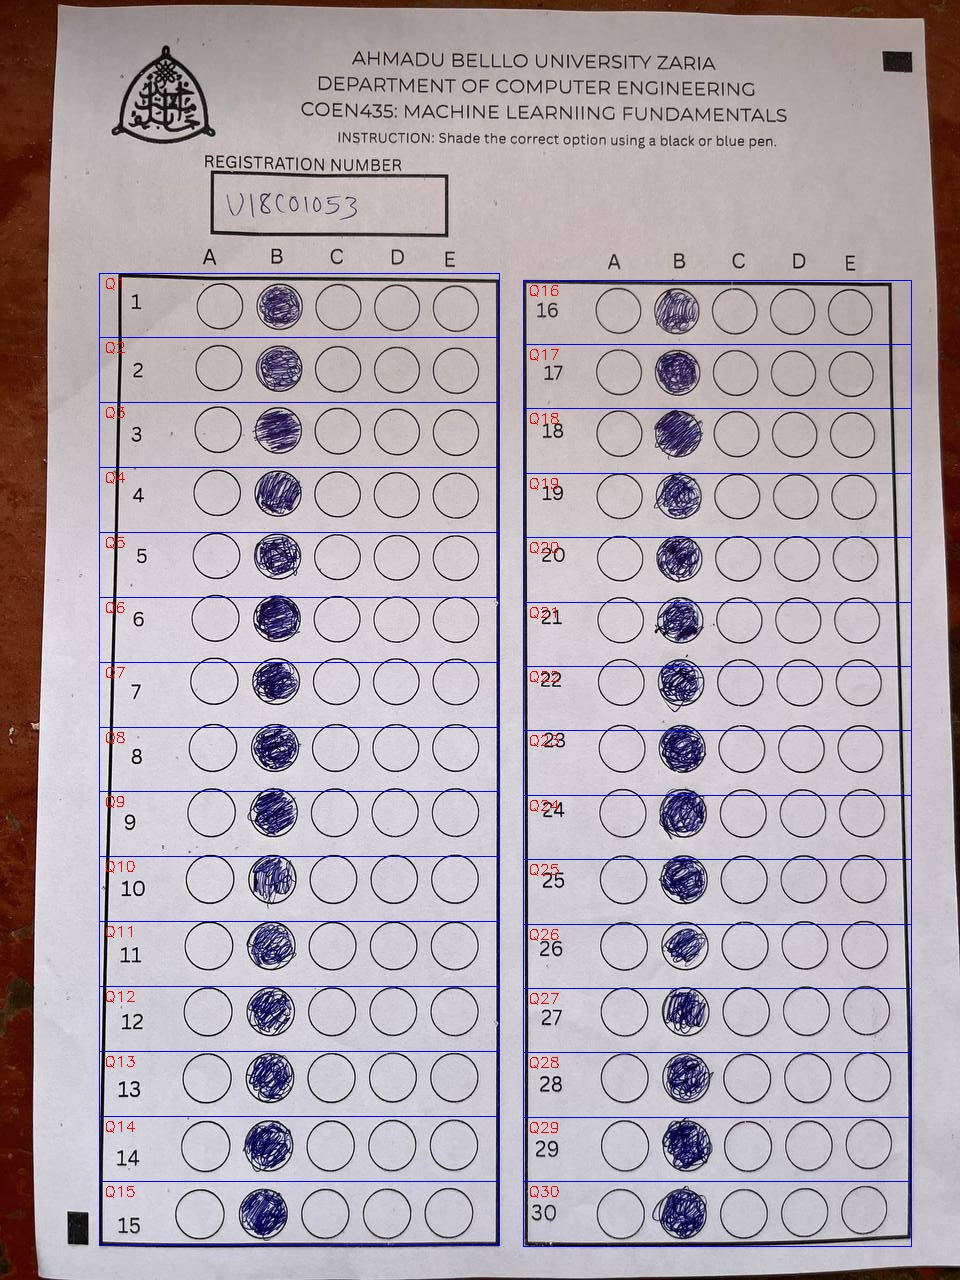
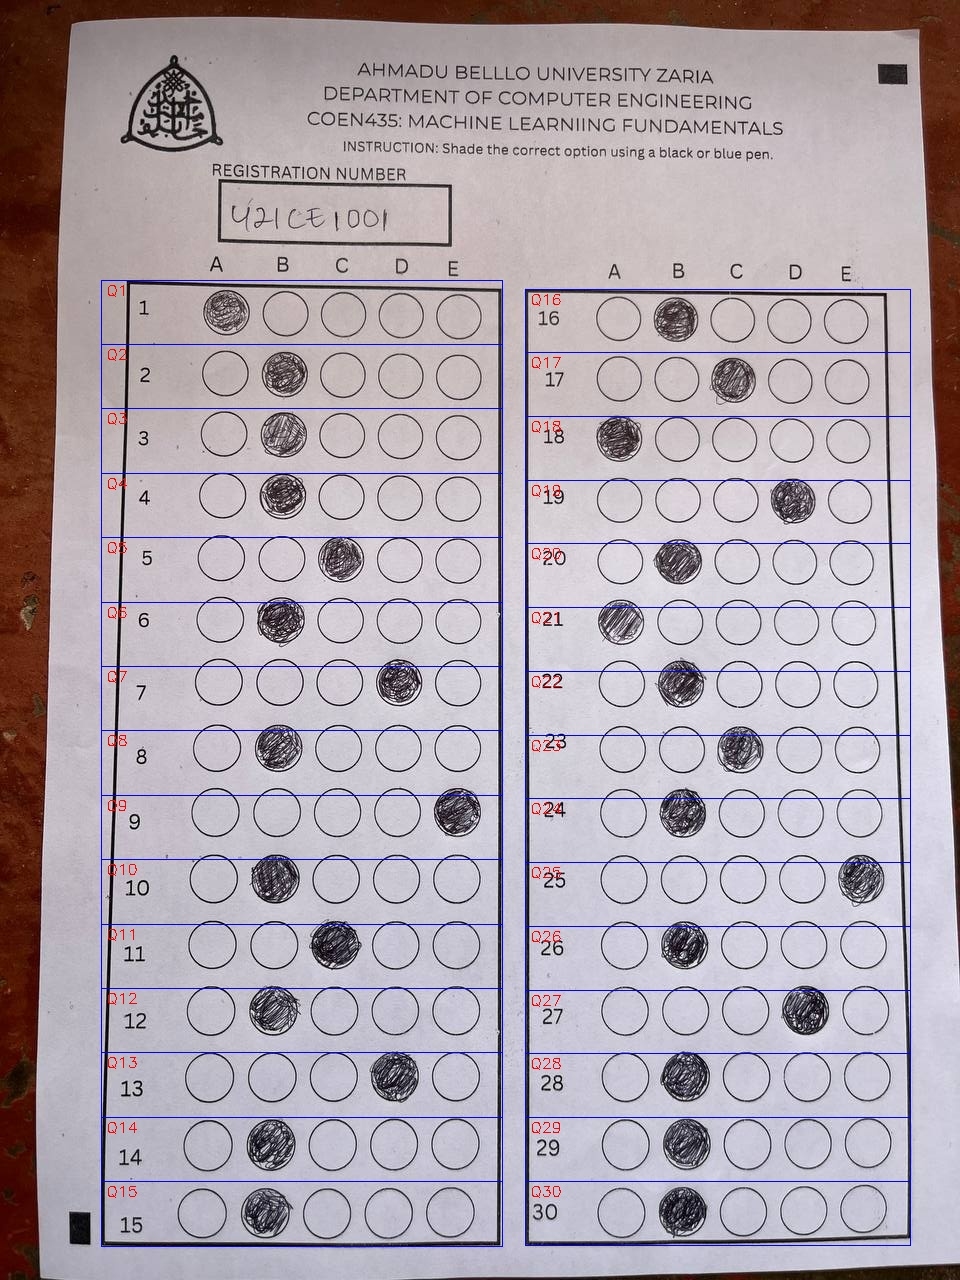
addition

diff --git a/mcq-grader-app/src/screens/GradeScreen.js b/mcq-grader-app/src/screens/GradeScreen.js
@@ -13,6 +13,7 @@ import * as ImagePicker from "expo-image-picker";
 import AsyncStorage from "@react-native-async-storage/async-storage";
 import axios from "axios";
 import { BASE_URL } from "../../config";
+import * as FileSystem from 'expo-file-system';
 
 export default function GradeScreen({ route, navigation }) {
   const { template, courseCode } = route.params; // ✅ passed from TemplatesScreen
@@ -50,18 +51,26 @@ export default function GradeScreen({ route, navigation }) {
 
     setLoading(true);
     try {
-      const formData = new FormData();
-      formData.append("file", {
-        uri: image,
-        type: "image/jpeg",
-        name: "answer_sheet.jpg",
+      // Read image as base64
+      const filename = image.split('/').pop();
+      const base64 = await FileSystem.readAsStringAsync(image, {
+        encoding: FileSystem.EncodingType.Base64,
       });
 
-      const response = await axios.post(`${BASE_URL}/grade`, formData, {
-        headers: { "Content-Type": "multipart/form-data" },
+      // Send base64 to backend
+      const response = await fetch(`${BASE_URL}/grade_base64`, {
+        method: 'POST',
+        headers: {
+          'Content-Type': 'application/json',
+          Accept: 'application/json',
+        },
+        body: JSON.stringify({
+          filename: filename,
+          content: base64,
+        }),
       });
 
-      const data = response.data;
+      const data = await response.json();
       if (!data || !data.answers) {
         throw new Error("Invalid grading response");
       }

diff --git a/mcq-grader-app/config.js b/mcq-grader-app/config.js
@@ -1,2 +1,2 @@
 // config.js
-export const BASE_URL =  "http://10.96.240.250:8000";
+export const BASE_URL = "http://10.96.240.250:8000";

diff --git a/testing.py b/testing.py
@@ -5,7 +5,7 @@ import os
 
 # === CONFIGURATION ===
 MODEL_PATH = 'models/yolov8_bubbles_best.pt'
-SAMPLE_IMAGE = 'Test_images/sheet05.jpg'
+SAMPLE_IMAGE = 'Test_images/sheet11.jpg'
 OUTPUT_JSON = 'result/results.json'
 SAVE_IMAGE = 'graded_images/output_debug.jpg'
 DEBUG_DIVISION_IMAGE = 'graded_images/debug_divisions.jpg'
@@ -13,10 +13,10 @@ MAPPED_IMAGE = 'graded_images/mapped_output.jpg'
 
 # Correct answers for 30 questions
 CORRECT_ANSWERS = {
-    1: "C", 2: "D", 3: "A", 4: "E", 5: "B",
-    6: "D", 7: "A", 8: "C", 9: "C", 10: "E",
-    11: "B", 12: "D", 13: "A", 14: "C", 15: "E",
-    16: "B", 17: "D", 18: "B", 19: "C", 20: "E",
+    1: "B", 2: "C", 3: "C", 4: "B", 5: "D",
+    6: "D", 7: "B", 8: "C", 9: "B", 10: "C",
+    11: "B", 12: "B", 13: "C", 14: "B", 15: "B",
+    16: "A", 17: "B", 18: "E", 19: "C", 20: "E",
     21: "B", 22: "C", 23: "A", 24: "D", 25: "B",
     26: "B", 27: "E", 28: "C", 29: "A", 30: "A"
 }

diff --git a/process_mcq_sheet.py b/process_mcq_sheet.py
@@ -16,7 +16,7 @@ REGEX_PATTERN = r'^U\d{2}[A-Z]{2}\d{4}$'
 
 # === ANSWER KEY ===
 CORRECT_ANSWERS = {
-    1: "", 2: "C", 3: "A", 4: "B", 5: "A",
+    1: "A", 2: "C", 3: "A", 4: "B", 5: "A",
     6: "D", 7: "A", 8: "C", 9: "A", 10: "A",
     11: "A", 12: "A", 13: "C", 14: "A", 15: "A",
     16: "A", 17: "A", 18: "C", 19: "A", 20: "A",
